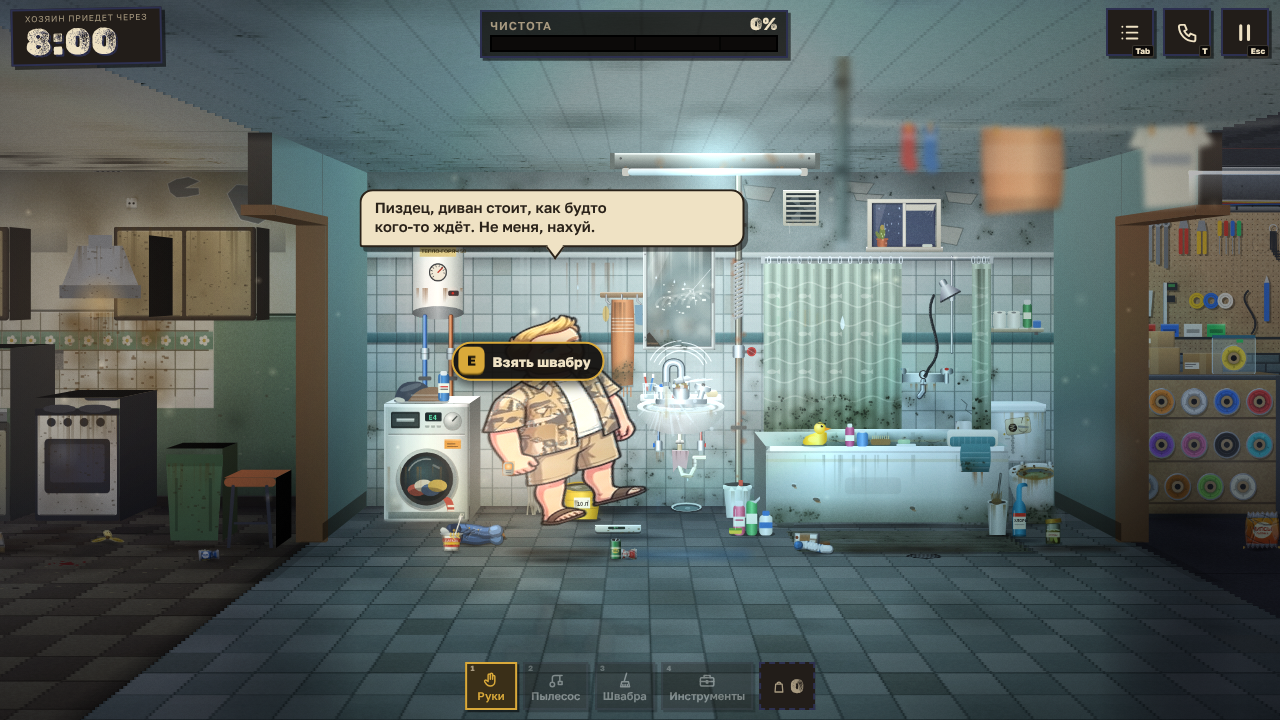
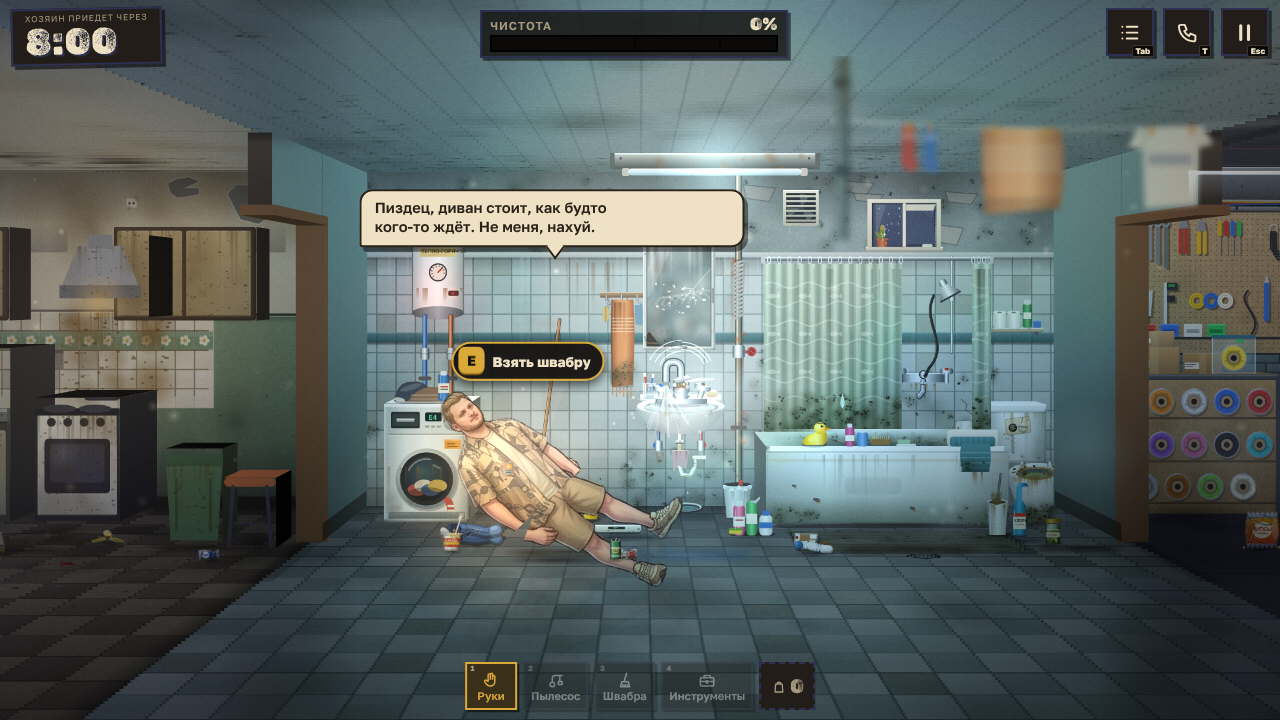
Realistic hero by default: taller run cycle, sprawled sofa pose, idle sway
Claude-Session: https://claude.ai/code/session_01Cr2TWfzsTSuZMJmoki1rcL

diff --git a/js/character.js b/js/character.js
@@ -264,23 +264,33 @@
     const p = inst.pose, st = inst.state, held = inst.held, t = inst.t, k = 1 / HS.px, I = HS.img;
     const cyc = st === 'walk' || st === 'run' || st === 'carry';
     g.save(); const fc = Math.abs(inst.face) < .12 ? .12 * Math.sign(inst.face || 1) : inst.face; g.scale(fc, 1);
-    const draw = (im, ox, oy) => { const w = im.width * k, h = im.height * k; g.drawImage(im, -w / 2 + (ox || 0), -h + (oy || 0), w, h); };
-    if (cyc || st === 'jump' || st === 'fall' || st === 'stumble' || st === 'panic' && false) {
-      let idx = 0; if (cyc) idx = Math.floor((((inst.phase / (2 * Math.PI)) % 1) + 1) % 1 * 7) % 7; else idx = st === 'jump' ? 5 : 3;
-      const im = I['run_' + idx]; draw(im, 0, st === 'jump' || st === 'fall' ? -6 : 0);
-      if (held === 'bag' || held === 'clothes') drawHeld(g, held, 30, -92 + (idx % 2) * 3, p, t);
+    const draw = (im, ox, oy, sc) => { const w = im.width * k * (sc || 1), h = im.height * k * (sc || 1); g.drawImage(im, -w / 2 + (ox || 0), -h + (oy || 0), w, h); };
+    if (st === 'sit') {                                   // sprawled on the sofa: torso thrown back, legs stretched out forward
+      const im = I.idle, w = im.width * k, h = im.height * k, hipY = h * .5, br = S_(t * 1.6) * .012, hip = 38;
+      g.translate(-4, (h - hipY) - hip);
+      const part = (y0, y1, ang, px, py) => { g.save(); g.translate(px, py); g.rotate(ang); g.translate(-px, -py); g.beginPath(); g.rect(-w, -h + y0, w * 2, y1 - y0); g.clip(); g.drawImage(im, -w / 2, -h, w, h); g.restore(); };
+      const hy = -h + hipY + 2;                          // hip height in sprite space
+      part(hipY - 2, h + 4, -1.2 + br, 0, hy);          // legs: swung forward (feet end up on the right)
+      part(-2, hipY + 2, -.78 + br * 2 + S_(t * .7) * .02, 0, hy);   // torso: reclined back
+      if (held) drawHeld(g, held, 18, -86, p, t);
+      g.restore(); return;
+    }
+    if (cyc || st === 'jump' || st === 'fall' || st === 'stumble') {
+      let idx = 0, sc = 1.2;
+      if (cyc) idx = Math.floor((((inst.phase / (2 * Math.PI)) % 1) + 1) % 1 * 5) % 5; else { idx = st === 'jump' ? 4 : 3; sc = 1.15; }
+      const im = I['run_' + idx], bob = cyc ? Math.abs(S_(inst.phase)) * 3 : 0;
+      draw(im, 0, (st === 'jump' || st === 'fall' ? -4 : 0) - bob, sc);
+      if (held === 'bag' || held === 'clothes') drawHeld(g, held, 34, -100 + (idx % 2) * 3, p, t);
     } else {
-      // standing sprite deformed by the pose parameters (lean, crouch, bounce, breathing)
-      const im = I.idle, crouch = clamp(p.crouch, -6, 44), hip = -92;
-      const sy = (1 - crouch / 215) * (1 + (st === 'idle' ? S_(t * 2) * .004 : 0)), sx = 1 + crouch / 520;
-      const lean = clamp(p.lean, -.5, .75) * .85, shake = (st === 'panic' ? S_(t * 40) * 1.2 : 0), hop = p.lift || 0;
-      g.translate(shake, -hop); g.translate(0, hip); g.rotate(lean); g.scale(sx, sy); g.translate(0, -hip);
-      if (st === 'sit') { g.translate(-6, 0); }
-      draw(im, S_(t * .8) * .0, 0);
+      // standing sprite deformed by the pose parameters (lean, crouch, bounce, breathing, weight shift)
+      const im = I.idle, crouch = clamp(p.crouch, -6, 44), hip = -92, idleish = st === 'idle' || st === 'idleBored';
+      const breathe = idleish ? S_(t * 2) * .006 : 0, sy = (1 - crouch / 215) * (1 + breathe), sx = 1 + crouch / 520 - breathe * .5;
+      const lean = clamp(p.lean, -.5, .75) * .85 + (idleish ? S_(t * .9) * .014 : 0), shake = (st === 'panic' ? S_(t * 40) * 1.2 : 0), hop = p.lift || 0;
+      g.translate(shake + (idleish ? S_(t * .9) * .8 : 0), -hop); g.translate(0, hip); g.rotate(lean); g.scale(sx, sy); g.translate(0, -hip);
+      draw(im, 0, 0);
       const hp = handPos(st, p);
       if (held === 'mop' || held === 'vac') drawTool(g, held, p, hp[0], hp[1]);
       else if (held) drawHeld(g, held, hp[0], hp[1], p, t);
-      if (st === 'mop' || st === 'vac') { /* tool is drawn over the legs */ }
     }
     g.restore();
   }
@@ -297,7 +307,7 @@
       const a = 1 - Math.exp(-dt * (cyc ? 40 : 15)); for (const k in tg) inst.pose[k] = inst.pose[k] === undefined ? tg[k] : lerp(inst.pose[k], tg[k], k === 'eye' ? Math.min(1, a * 3) : a);
     };
     inst.draw = function (g, t) {
-      if (kind === 'bamboul' && TOON.ready && !(BB.CFG && BB.CFG.realHero)) return drawToon(inst, g);
+      if (kind === 'bamboul' && TOON.ready && (BB.CFG && BB.CFG.realHero === false)) return drawToon(inst, g);
       if (kind === 'bamboul' && HS.ready) return drawHeroSprite(inst, g);
       const p = inst.pose, held = inst.held, st = inst.state;
       g.save(); g.scale(sc, sc);

diff --git a/js/ui.js b/js/ui.js
@@ -13,7 +13,7 @@
   const safe = (f, d) => { try { return f(); } catch (e) { console.error('[ui]', e); return d; } };
 
   /* ------------------------------------------------------------------ CFG */
-  const CFG_DEF = { vol: .7, music: true, sfx: true, musicVol: .8, sfxVol: 1, censor: false, subs: true, touch: false, quality: 'auto', debug: false, muted: false };
+  const CFG_DEF = { vol: .7, music: true, sfx: true, musicVol: .8, sfxVol: 1, censor: false, subs: true, touch: false, quality: 'auto', realHero: true, debug: false, muted: false };
   let stored = {}; try { stored = JSON.parse(localStorage.getItem('bamboul.cfg') || '{}') || {}; } catch (e) { }
   const CFG = BB.CFG = Object.assign(BB.CFG || {}, CFG_DEF, stored);
   BB.saveCFG = () => { try { localStorage.setItem('bamboul.cfg', JSON.stringify(CFG)); } catch (e) { } };
@@ -583,7 +583,7 @@
     box.append(
       row('Громкость', slider('vol')), row('Музыка', slider('musicVol')), row('Звуки', slider('sfxVol')),
       row('Запикать мат', toggle('censor'), 'Звёздочки вместо крепких слов'),
-      row('Реалистичный герой', toggle('realHero'), 'Вместо мультяшного: полные анимации только у мультяшного'),
+      row('Реалистичный герой', toggle('realHero'), 'Выключи — будет мультяшный герой с полным набором поз'),
       row('Субтитры звуков', toggle('subs'), 'Подписи вроде «[звонит телефон]»'),
       row('Сенсорное управление', toggle('touch', v => setTouch(v)), 'Всегда показывать стик и кнопки'),
       row('Показать отладку', toggle('debug', v => { if (BB.debug) BB.debug.on = v; }), 'То же, что F3')
